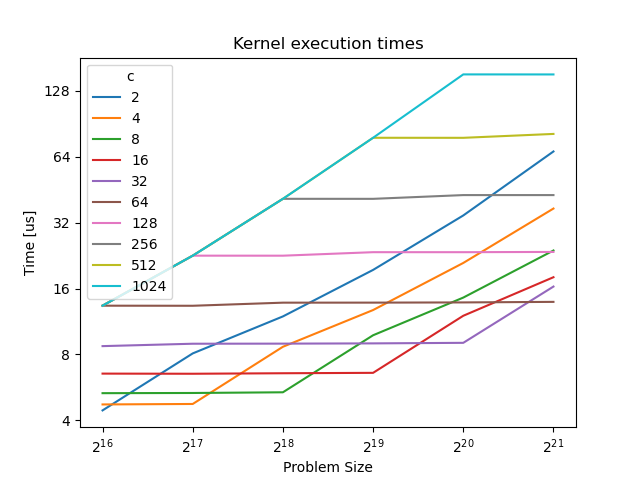
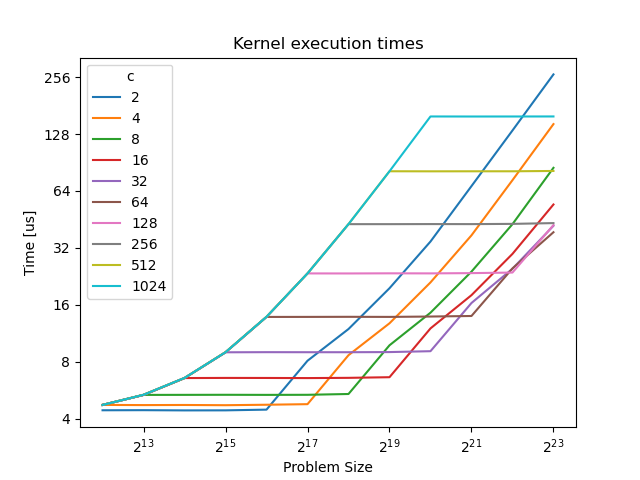
Bigger plot range

diff --git a/plots/perf.py b/plots/perf.py
@@ -192,11 +192,69 @@ def reduction():
     ]
     kernel_name = "Sum"
 
+    # Profile kernels
+    d = []
+    for image in images:
+        for margin in [1, 2, 3]:
+            with tempfile.NamedTemporaryFile() as tmpfile:
+                report = NvProfReport(binary, [str(margin), image, tmpfile.name])
+                d.append(
+                    {
+                        "image": os.path.basename(image),
+                        "margin": margin,
+                        "exec_time": report.get_kernel_execution_time(kernel_name),
+                        "launch_time": report.get_kernel_launch_time(),
+                        "memcpy_to_device_time": report.get_memcpy_to_device_time(),
+                        "memcpy_to_host_time": report.get_memcpy_to_host_time(),
+                    },
+                )
+    df = pd.DataFrame(d)
+    df.to_csv(os.path.join(plot_dir, "04_reduction", "kernel_execution_times.csv"))
+
+    # Plot execution times
+    fig = (
+        df.pivot(index="image", columns="margin", values="exec_time")
+        .plot(kind="bar")
+        .get_figure()
+    )
+    fig.gca().set_title("Kernel execution times")
+    fig.gca().set_ylabel("Time [us]")
+    fig.gca().set_yscale("log", base=2)
+    fig.gca().set_xticklabels(fig.gca().get_xticklabels(), rotation=0)
+    fig.gca().yaxis.set_major_formatter(ticker.FormatStrFormatter("%d"))
+    plot_path = os.path.join(plot_dir, "01_image_filter", "kernel_execution_times.png")
+    os.makedirs(os.path.dirname(plot_path), exist_ok=True)
+    fig.savefig(plot_path)
+
+    # Plot memcpy times
+    fig = (
+        df[df["margin"] == 1]
+        .set_index("image")[
+            [
+                "launch_time",
+                "exec_time",
+                "memcpy_to_device_time",
+                "memcpy_to_host_time",
+            ]
+        ]
+        .plot(kind="bar", stacked=True)
+        .get_figure()
+    )
+    fig.gca().set_title("Execution time composition")
+    fig.gca().set_ylabel("Time [us]")
+    fig.gca().set_xticklabels(fig.gca().get_xticklabels(), rotation=0)
+    fig.gca().yaxis.set_major_formatter(ticker.FormatStrFormatter("%d"))
+    plot_path = os.path.join(
+        plot_dir, "01_image_filter", "execution_time_composition.png"
+    )
+    os.makedirs(os.path.dirname(plot_path), exist_ok=True)
+    fig.savefig(plot_path)
+
     # Compare Cascade
     d = []
     binary = binaries[2]
     iter = 1
-    for n in range(16, 22):
+    for n in range(12, 24):
         problem_size = 2**n
         for c in range(1, 11):
             cascade_size = 2**c
